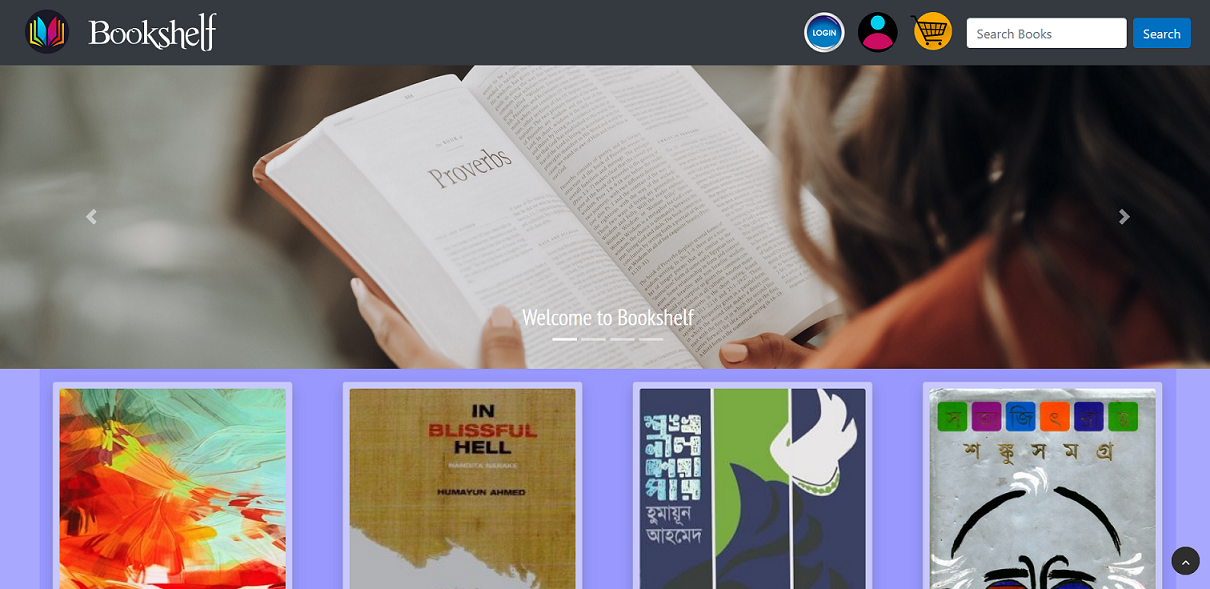
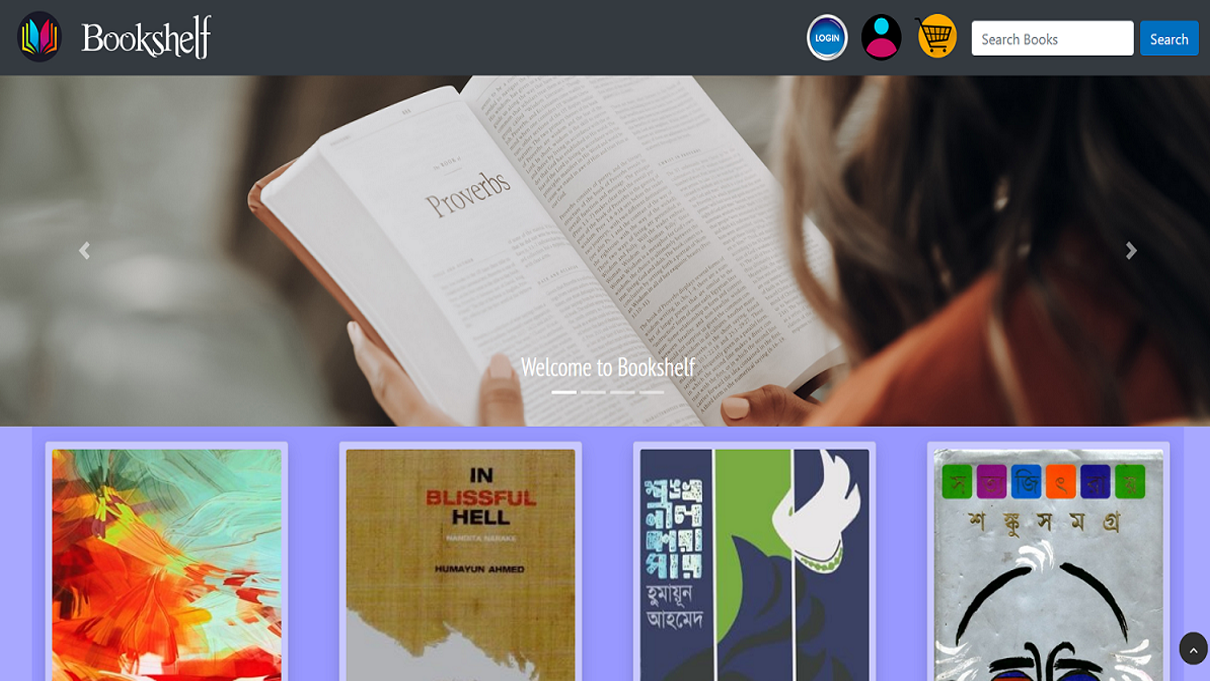
Updated Images and CSS

diff --git a/assets/css/main.css b/assets/css/main.css
@@ -2089,6 +2089,7 @@ input, select, textarea {
 		text-decoration: none;
 		text-transform: uppercase;
 		white-space: nowrap;
+		margin-top: 1rem;
 	}
 
 		input[type="submit"].icon:before,
@@ -2161,6 +2162,7 @@ input, select, textarea {
 			height: 3.5rem;
 			line-height: 3.5rem;
 			padding: 0 2.75rem;
+			margin-top: 0rem;
 		}
 
 		@media screen and (max-width: 980px) {
@@ -2620,7 +2622,7 @@ input, select, textarea {
 
 		.image.fit {
 			display: block;
-			margin: 2.5rem 0;
+			margin: 0rem 0;
 			width: 100%;
 		}
 
@@ -2634,7 +2636,7 @@ input, select, textarea {
 
 		.image.main {
 			display: block;
-			margin: 4rem 0;
+			margin: 1rem 0;
 			width: 100%;
 		}
 
@@ -2649,11 +2651,11 @@ input, select, textarea {
 		@media screen and (max-width: 736px) {
 
 			.image.fit {
-				margin: 2rem 0;
+				margin: 0rem 0;
 			}
 
 			.image.main {
-				margin: 2rem 0;
+				margin: 1rem 0;
 			}
 
 		}
@@ -2945,7 +2947,12 @@ input, select, textarea {
 		}
 
 		header.major {
-			margin: 0 0 4rem 0;
+			margin: 0 0 0.5rem 0;
+			text-align: center;
+		}
+
+		h2.minor {
+			margin: 0 0 5rem 0;
 			text-align: center;
 		}
 
@@ -2960,7 +2967,7 @@ input, select, textarea {
 
 			header.major > .date {
 				font-size: 1rem;
-				margin: 0 0 4rem 0;
+				margin: 0 0 0.5rem 0;
 			}
 
 				header.major > .date:before, header.major > .date:after {
@@ -2991,7 +2998,7 @@ input, select, textarea {
 		@media screen and (max-width: 736px) {
 
 			header.major {
-				margin: 0 0 2rem 0;
+				margin: 0 0 0.5rem 0;
 			}
 
 		}
@@ -3516,7 +3523,7 @@ input, select, textarea {
 		-webkit-user-select: none;
 		-ms-user-select: none;
 		user-select: none;
-		height: 20rem;
+		height: 16rem;
 		padding-bottom: 8rem;
 		position: relative;
 		text-align: center;
@@ -3585,7 +3592,7 @@ input, select, textarea {
 		@media screen and (max-width: 980px) {
 
 			#header {
-				height: 14rem;
+				height: 10rem;
 				padding-bottom: 4rem;
 			}
 
@@ -3594,6 +3601,7 @@ input, select, textarea {
 		@media screen and (max-width: 736px) {
 
 			#header {
+				height: 14rem;
 				padding-bottom: 3rem;
 			}
 
@@ -3766,7 +3774,7 @@ input, select, textarea {
 	}
 
 		#main > * {
-			padding: 4rem 4rem 2rem 4rem ;
+			padding: 2rem 4rem 2rem 4rem ;
 			border-top: solid 2px #eeeeee;
 			margin: 0;
 		}
@@ -3780,17 +3788,17 @@ input, select, textarea {
 		}
 
 		#main > .post {
-			padding: 8rem 8rem 6rem 8rem ;
+			padding: 2rem 4rem 2rem 4rem ;
 		}
 
 			#main > .post header.major > .date {
-				margin-top: -2rem;
+				margin-top: 0rem;
 			}
 
 			#main > .post header.major > h1, #main > .post header.major h2 {
 				font-size: 4rem;
 				line-height: 1.1;
-				margin: 0 0 2rem 0;
+				margin: 0 0 0 0;
 			}
 
 			#main > .post.featured {
@@ -3800,7 +3808,7 @@ input, select, textarea {
 			@media screen and (max-width: 1280px) {
 
 				#main > .post {
-					padding: 6rem 4rem 4rem 4rem ;
+					padding: 2rem 1rem 1rem 1rem ;
 				}
 
 			}
@@ -3808,7 +3816,7 @@ input, select, textarea {
 			@media screen and (max-width: 736px) {
 
 				#main > .post {
-					padding: 4rem 2rem 2rem 2rem ;
+					padding: 2rem 1rem 1rem 1rem ;
 				}
 
 					#main > .post header.major > .date {
@@ -3819,7 +3827,7 @@ input, select, textarea {
 					#main > .post header.major > h1, #main > .post header.major h2 {
 						font-size: 2.5rem;
 						line-height: 1.2;
-						margin: 0 0 1.5rem 0;
+						margin: 0 0 0 0;
 					}
 
 			}
@@ -3858,7 +3866,7 @@ input, select, textarea {
 			}
 
 			#main > .posts > * {
-				padding: 4rem;
+				padding: 1rem;
 				width: 50%;
 			}
 
@@ -3882,6 +3890,11 @@ input, select, textarea {
 					border-top-width: 0;
 				}
 
+				#main > .posts > h1, #main > .posts h2 {
+					line-height: 1.1;
+					margin: 0 0 0 0;
+				}
+
 			@media screen and (max-width: 980px) {
 
 				#main > .posts > * {
@@ -3889,7 +3902,7 @@ input, select, textarea {
 				}
 
 				#main > .posts > * {
-					padding: 2.5rem;
+					padding: 1rem;
 					width: 50%;
 				}
 
@@ -3902,7 +3915,7 @@ input, select, textarea {
 				}
 
 				#main > .posts > * {
-					padding: 2rem;
+					padding: 1rem;
 					width: 100%;
 				}
 
@@ -4688,3 +4701,12 @@ input, select, textarea {
 		}
 
 	}
+
+.hoverable {
+	width: 80%;
+}
+
+.hoverable:hover {
+	width: 21%;
+	transition: ease;
+}

diff --git a/index.html b/index.html
@@ -45,27 +45,28 @@
 					<div id="main">
 
 						<!-- Featured Post -->
-							<article class="post featured">
+							<article  class="post featured">
 								<header class="major">
-									<h2><a href="https://github.com/SudiptoShahnawazShanto/Bookshelf">Bookshelf</a></h2>
-									<p>An online bookstore.</p>
+									<h2><a href="https://github.com/SudiptoShahnawazShanto/Space-AR">Space - AR</a></h2>
+									<p>My first ongoing Augmented Reality project.</p>
 								</header>
-								<a href="https://github.com/SudiptoShahnawazShanto/Bookshelf" class="image main"><img src="images/bookshelf - cover.png" alt=""  width="80%" /></a>
+								<a href="https://github.com/SudiptoShahnawazShanto/Space-AR" ><img id = "Space-AR" class="hoverable" src="images/space - cover.jpg" alt="" /></a>
 								<ul class="actions special">
-									<li><a href="https://github.com/SudiptoShahnawazShanto/Bookshelf" class="button large">View on GitHub</a></li>
+									<li><a href="https://github.com/SudiptoShahnawazShanto/Space-AR" class="button large">View on GitHub</a></li>
 								</ul>
 							</article>
+							
 
 						<!-- Posts -->
 							<section class="posts">
 								<article>
 									<header class="major">
-										<h2><a href="https://github.com/SudiptoShahnawazShanto/Space-AR">Space - AR</a></h2>
-										<p>My first ongoing Augmented Reality project.</p>
+										<h2><a href="https://github.com/SudiptoShahnawazShanto/Bookshelf">Bookshelf</a></h2>
+										<p>An online bookstore.</p>
 									</header>
-									<a href="https://github.com/SudiptoShahnawazShanto/Space-AR" class="image fit"><img src="images/space - cover.jpg" alt="" /></a>
+									<a href="https://github.com/SudiptoShahnawazShanto/Bookshelf" class="image fit"><img src="images/bookshelf - cover.png" alt=""  width="80%" /></a>
 									<ul class="actions special">
-										<li><a href="https://github.com/SudiptoShahnawazShanto/Space-AR" class="button">View on GitHub</a></li>
+										<li><a href="https://github.com/SudiptoShahnawazShanto/Bookshelf" class="button">View on GitHub</a></li>
 									</ul>
 								</article>
 

diff --git a/hobbies.html b/hobbies.html
@@ -47,6 +47,7 @@
 					<!-- Posts -->
 						<section class="posts">
 							<article>
+								<br>
 								<header class="major">
 									<h2><a href="https://www.worldcubeassociation.org/persons/2017SHAN20">Speedcubing</a></h2>
 									<p>Speedcubing involves solving Rubik's cubes as quickly as you can. Below is a 10.92 seconds solve.</p>
@@ -57,6 +58,7 @@
 								</ul>
 							</article>
 							<article>
+								<br>
 								<header class="major">
 									<h2><a href="https://www.youtube.com/channel/UCoIHygqh3LW0ogwRoGUL-cA">YouTubing</a></h2>
 									<p>I created my channel for uploading gaming videos. I have also created some non-gaming videos.</p>
@@ -67,6 +69,7 @@
 								</ul>
 							</article>
 							<article>
+								<br>
 								<header class="major">
 									<h2><a href="https://steamcommunity.com/id/Co0kie_Monst3r/">Gaming</a></h2>
 									<p>I have been gaming since I was born, literally.</p>
@@ -77,6 +80,7 @@
 								</ul>
 							</article>
 							<article>
+								<br>
 								<header class="major">
 									<h2><a href="https://leetcode.com/shahnawazshanto/">Competetive Programming</a></h2>
 									<p>I have solved around 1000 problems.</p>

diff --git a/assets/js/hover.js b/assets/js/hover.js
@@ -8,7 +8,6 @@ $(function() {
         }                         
     );   
     
-    
     $("#NoobCube").hover(
         function() {
             $(this).attr("src", "images/NoobCube.gif");
@@ -17,4 +16,13 @@ $(function() {
             $(this).attr("src", "images/noobcube - cover.png");
         }                         
     );    
+
+    $("#Space-AR").hover(
+        function() {
+            $(this).attr("src", "images/Space.gif");
+        },
+        function() {
+            $(this).attr("src", "images/space - cover.jpg");
+        }                         
+    );   
 });
